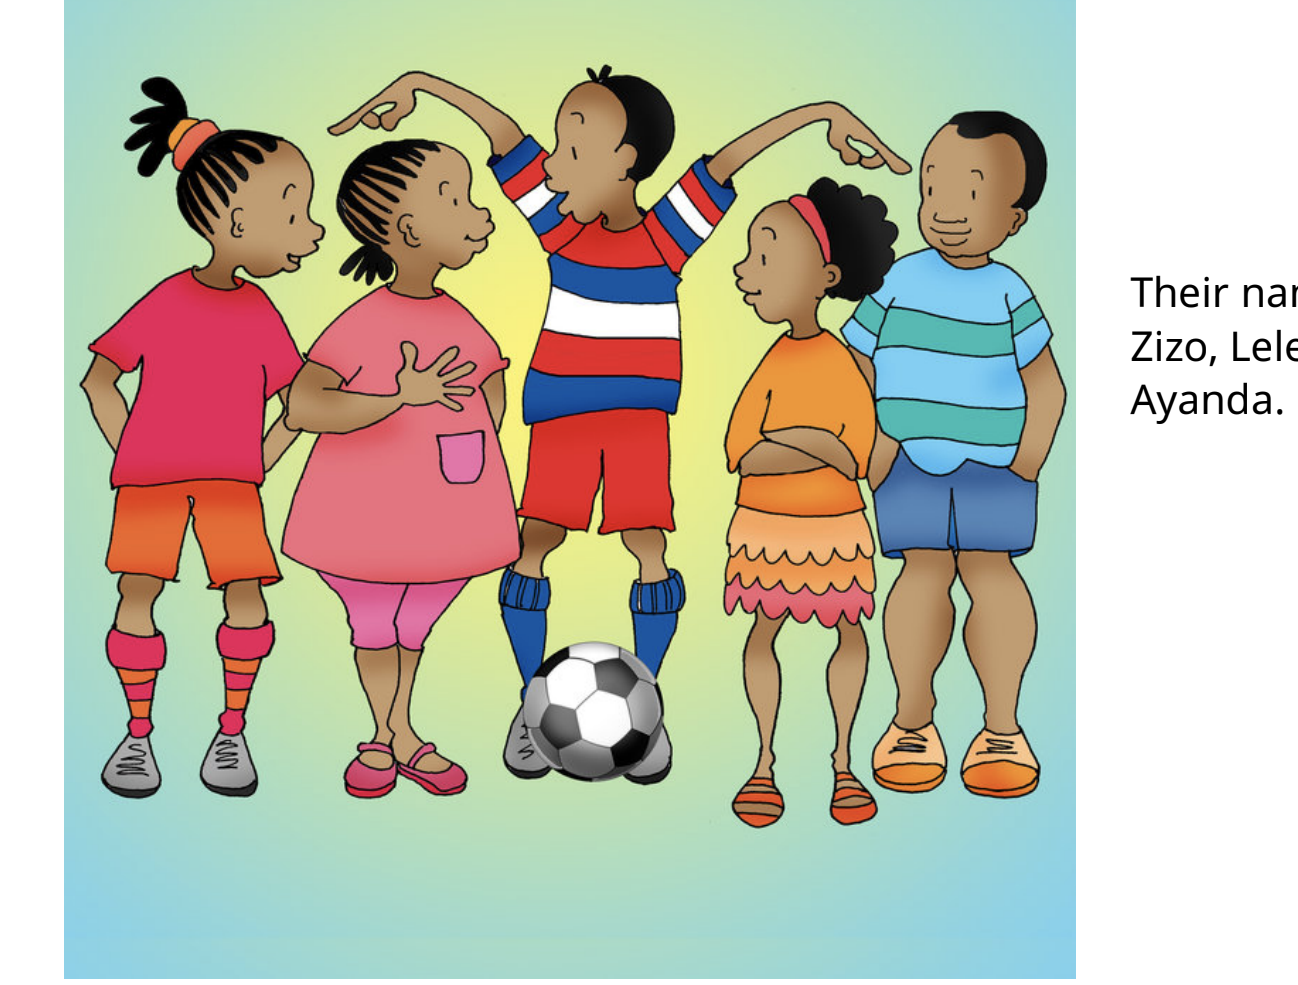
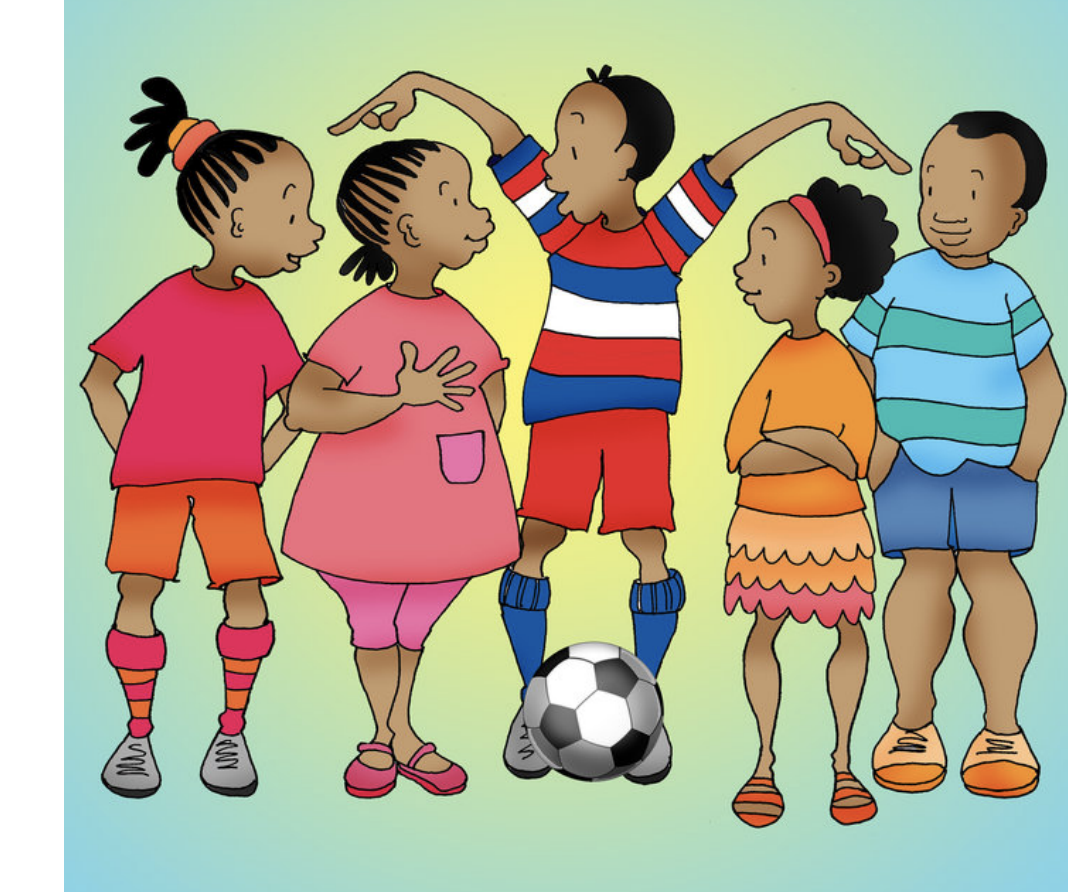
better working imagecrop thingy

diff --git a/ImageDetection.py b/ImageDetection.py
@@ -38,10 +38,10 @@ def find_edges(image_preprocessed, *, bw_threshold=150, limits=(0.2, 0.15)):
 def adapt_edges(edges, *, height, width):
     (x_min, x_max), (y_min, y_max) = edges
     x_min2 = x_min
-    x_max2 = x_max + min(250, (height - x_max) * 10 // 11)
-    # could do with less magic numbers
-    y_min2 = max(0, y_min)
-    y_max2 = y_max + min(250, (width - y_max) * 10 // 11)
+    x_max2 = x_max + 100
+    # # could do with less magic numbers
+    y_min2 = y_min 
+    y_max2 = y_max + 20
     return (x_min2, x_max2), (y_min2, y_max2)
 
 if __name__ == "__main__":
